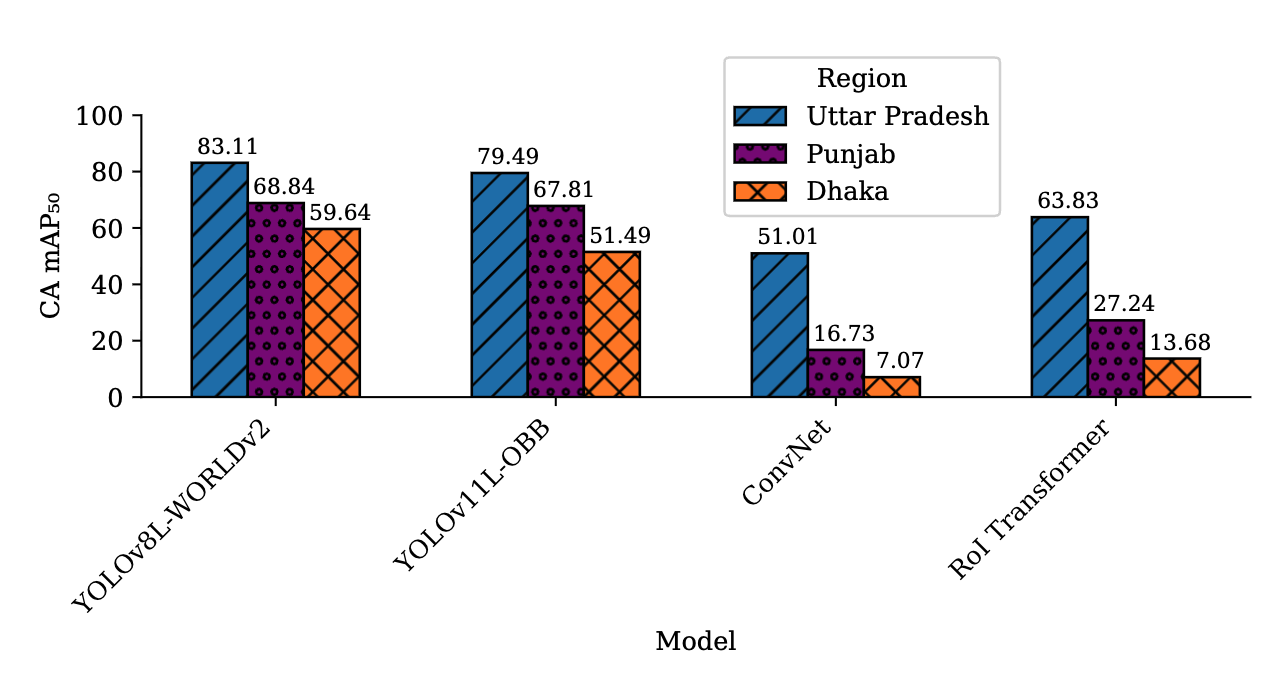
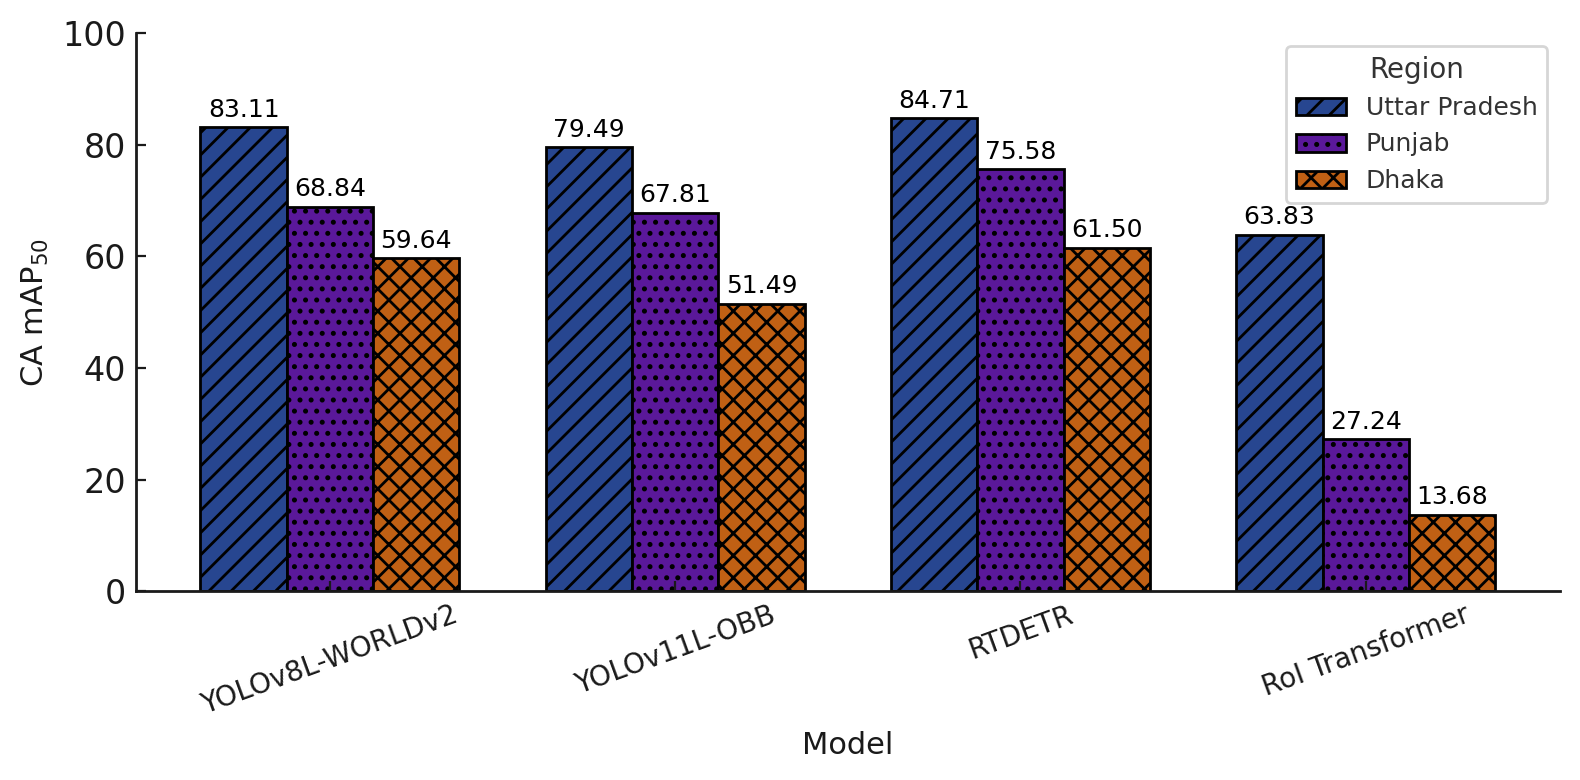
Changes to figures and UI/UX

diff --git a/docs/applications.html b/docs/applications.html
@@ -274,13 +274,28 @@ pre > code.sourceCode > span > a:first-child::before { text-decoration: underlin
 <h3 class="anchored" data-anchor-id="foundation-model-development">Foundation Model Development</h3>
 <div class="grid grid-3">
 <div class="card">
-<p><strong>Remote Sensing Pretraining</strong> - Large-scale satellite imagery datasets - Self-supervised learning approaches - Multi-spectral data integration</p>
+<p><strong>Remote Sensing Pretraining</strong></p>
+<ul>
+<li>Large-scale satellite imagery datasets</li>
+<li>Self-supervised learning approaches</li>
+<li>Multi-spectral data integration</li>
+</ul>
 </div>
 <div class="card">
-<p><strong>Multi-Task Learning</strong> - Simultaneous detection and classification - Joint object and scene understanding - Efficiency optimization</p>
+<p><strong>Multi-Task Learning</strong></p>
+<ul>
+<li>Simultaneous detection and classification</li>
+<li>Joint object and scene understanding</li>
+<li>Efficiency optimization</li>
+</ul>
 </div>
 <div class="card">
-<p><strong>Vision-Language Models</strong> - Connect imagery with descriptions - Natural language queries - Automated report generation</p>
+<p><strong>Vision-Language Models</strong></p>
+<ul>
+<li>Connect imagery with descriptions</li>
+<li>Natural language queries</li>
+<li>Automated report generation</li>
+</ul>
 </div>
 </div>
 </section>
@@ -304,30 +319,6 @@ pre > code.sourceCode > span > a:first-child::before { text-decoration: underlin
 <li><strong>Financial Inclusion</strong>: Support small-scale producers with credit access</li>
 <li><strong>Market Access</strong>: Connect producers with sustainable building markets</li>
 </ul>
-</section>
-</section>
-<section id="case-studies" class="level2">
-<h2 class="anchored" data-anchor-id="case-studies">Case Studies</h2>
-<section id="india-uttar-pradesh-technology-transition" class="level3">
-<h3 class="anchored" data-anchor-id="india-uttar-pradesh-technology-transition">India: Uttar Pradesh Technology Transition</h3>
-<p><strong>Challenge</strong>: High pollution levels from traditional brick kilns<br>
-<strong>Application</strong>: Used SentinelKilnDB to track Zigzag kiln adoption<br>
-<strong>Results</strong>: 94% correlation with official survey data, identified 19,910 kilns<br>
-<strong>Impact</strong>: Informed state-level incentive programs for cleaner technology</p>
-</section>
-<section id="bangladesh-rapid-industrialization-monitoring" class="level3">
-<h3 class="anchored" data-anchor-id="bangladesh-rapid-industrialization-monitoring">Bangladesh: Rapid Industrialization Monitoring</h3>
-<p><strong>Challenge</strong>: Tracking environmental impact of industrial growth<br>
-<strong>Application</strong>: Monitor kiln density changes over time<br>
-<strong>Results</strong>: Documented shift from 150 to 4,247 Zigzag kilns (2009-2017)<br>
-<strong>Impact</strong>: Supported evidence-based environmental policy</p>
-</section>
-<section id="pakistan-air-quality-improvement" class="level3">
-<h3 class="anchored" data-anchor-id="pakistan-air-quality-improvement">Pakistan: Air Quality Improvement</h3>
-<p><strong>Challenge</strong>: Address air pollution in Punjab province<br>
-<strong>Application</strong>: Identify high-density kiln areas for intervention<br>
-<strong>Results</strong>: Mapped 12,177 kilns across 4 provinces<br>
-<strong>Impact</strong>: Targeted air quality improvement programs</p>
 </section>
 </section>
 <section id="technical-implementation" class="level2">

diff --git a/docs/styles.css b/docs/styles.css
@@ -521,3 +521,125 @@ li {
 .table-container {
   position: relative;
 }
+.stat-grid-2x2 {
+  display: grid;
+  grid-template-columns: repeat(2, 1fr); /* 2 columns by default */
+  gap: 2rem;
+  max-width: 900px;
+  width: 100%;                   /* always fit parent */
+  box-sizing: border-box;
+  margin: 0 auto;
+  padding: 0 2rem;
+}
+
+@media (max-width: 780px) {
+  .stat-grid-2x2 {
+    gap: 1rem;
+    padding: 0 1rem;
+    max-width: 100%;
+  }
+}
+
+@media (max-width: 520px) {
+  .stat-grid-2x2 {
+    grid-template-columns: 1fr;  /* switch to single column stack */
+    gap: 1rem;
+    padding: 0 0.5rem;
+  }
+}
+
+.hero h1, .container h1 {
+  text-align: center;
+  margin-left: auto;
+  margin-right: auto;
+}
+
+.grid-3 {
+  display: grid;
+  grid-template-columns: repeat(auto-fit, minmax(275px, 1fr));
+  gap: 2.5rem;
+  margin: 2.5rem 0;
+}
+
+.card {
+  background: var(--color-white);
+  border: 1.5px solid var(--color-gray-200); 
+  border-radius: 18px;
+  padding: 2rem 1.5rem;
+  box-shadow: 0 1px 9px rgba(60,100,180,.06);
+  transition: box-shadow 0.22s, border-color 0.18s, transform 0.14s;
+  min-height: 200px;
+  display: flex;
+  flex-direction: column;
+  justify-content: flex-start;
+  font-size: 1.08rem;
+  margin-bottom: 0;
+}
+
+@media (max-width: 900px) {
+  .grid-3 {
+    grid-template-columns: 1fr;
+    gap: 1.5rem;
+  }
+  .card {
+    padding: 1.2rem 0.8rem;
+  }
+}
+
+.case-study-stack {
+  display: flex;
+  flex-direction: column;
+  gap: 2.5rem;
+  margin: 3rem 0;
+}
+
+.case-study-card {
+  background: var(--color-white, #fff);
+  border-left: 5px solid var(--color-primary, #3b82f6);
+  border-radius: 12px;
+  box-shadow: 0 4px 24px rgba(60,100,180,.09);
+  padding: 1.75rem 2rem 1.25rem 2rem;
+  transition: box-shadow 0.22s, border-color 0.18s;
+  position: relative;
+}
+
+.case-study-card:hover {
+  box-shadow: 0 8px 32px rgba(60,100,180,0.17);
+  border-left: 5px solid var(--color-accent, #06b6d4);
+}
+
+.cs-title {
+  font-size: 1.18rem;
+  font-weight: 700;
+  color: var(--color-primary, #3b82f6);
+  margin-bottom: 1.2rem;
+  letter-spacing: 0.01em;
+}
+
+.case-study-card div {
+  font-size: 1.08rem;
+  margin-bottom: 0.45rem;
+  color: var(--color-gray-800, #334155);
+  line-height: 1.6;
+}
+
+.case-study-card b {
+  color: var(--color-gray-900, #0f172a);
+  font-weight: 700;
+}
+
+@media (max-width: 900px) {
+  .case-study-card {
+    padding: 1.2rem 1rem 1rem 1rem;
+  }
+  .cs-title {
+    font-size: 1.06rem;
+  }
+}
+
+/* Center align Quarto page title at top */
+.title, .page-title, h1.title, h1.page-title {
+  text-align: left;
+  margin-left: auto;
+  margin-right: auto;
+}

diff --git a/styles.css b/styles.css
@@ -521,3 +521,125 @@ li {
 .table-container {
   position: relative;
 }
+.stat-grid-2x2 {
+  display: grid;
+  grid-template-columns: repeat(2, 1fr); /* 2 columns by default */
+  gap: 2rem;
+  max-width: 900px;
+  width: 100%;                   /* always fit parent */
+  box-sizing: border-box;
+  margin: 0 auto;
+  padding: 0 2rem;
+}
+
+@media (max-width: 780px) {
+  .stat-grid-2x2 {
+    gap: 1rem;
+    padding: 0 1rem;
+    max-width: 100%;
+  }
+}
+
+@media (max-width: 520px) {
+  .stat-grid-2x2 {
+    grid-template-columns: 1fr;  /* switch to single column stack */
+    gap: 1rem;
+    padding: 0 0.5rem;
+  }
+}
+
+.hero h1, .container h1 {
+  text-align: center;
+  margin-left: auto;
+  margin-right: auto;
+}
+
+.grid-3 {
+  display: grid;
+  grid-template-columns: repeat(auto-fit, minmax(275px, 1fr));
+  gap: 2.5rem;
+  margin: 2.5rem 0;
+}
+
+.card {
+  background: var(--color-white);
+  border: 1.5px solid var(--color-gray-200); 
+  border-radius: 18px;
+  padding: 2rem 1.5rem;
+  box-shadow: 0 1px 9px rgba(60,100,180,.06);
+  transition: box-shadow 0.22s, border-color 0.18s, transform 0.14s;
+  min-height: 200px;
+  display: flex;
+  flex-direction: column;
+  justify-content: flex-start;
+  font-size: 1.08rem;
+  margin-bottom: 0;
+}
+
+@media (max-width: 900px) {
+  .grid-3 {
+    grid-template-columns: 1fr;
+    gap: 1.5rem;
+  }
+  .card {
+    padding: 1.2rem 0.8rem;
+  }
+}
+
+.case-study-stack {
+  display: flex;
+  flex-direction: column;
+  gap: 2.5rem;
+  margin: 3rem 0;
+}
+
+.case-study-card {
+  background: var(--color-white, #fff);
+  border-left: 5px solid var(--color-primary, #3b82f6);
+  border-radius: 12px;
+  box-shadow: 0 4px 24px rgba(60,100,180,.09);
+  padding: 1.75rem 2rem 1.25rem 2rem;
+  transition: box-shadow 0.22s, border-color 0.18s;
+  position: relative;
+}
+
+.case-study-card:hover {
+  box-shadow: 0 8px 32px rgba(60,100,180,0.17);
+  border-left: 5px solid var(--color-accent, #06b6d4);
+}
+
+.cs-title {
+  font-size: 1.18rem;
+  font-weight: 700;
+  color: var(--color-primary, #3b82f6);
+  margin-bottom: 1.2rem;
+  letter-spacing: 0.01em;
+}
+
+.case-study-card div {
+  font-size: 1.08rem;
+  margin-bottom: 0.45rem;
+  color: var(--color-gray-800, #334155);
+  line-height: 1.6;
+}
+
+.case-study-card b {
+  color: var(--color-gray-900, #0f172a);
+  font-weight: 700;
+}
+
+@media (max-width: 900px) {
+  .case-study-card {
+    padding: 1.2rem 1rem 1rem 1rem;
+  }
+  .cs-title {
+    font-size: 1.06rem;
+  }
+}
+
+/* Center align Quarto page title at top */
+.title, .page-title, h1.title, h1.page-title {
+  text-align: left;
+  margin-left: auto;
+  margin-right: auto;
+}

diff --git a/docs/index.html b/docs/index.html
@@ -169,14 +169,30 @@ pre > code.sourceCode > span > a:first-child::before { text-decoration: underlin
 <!-- margin-sidebar -->
     
 <!-- main -->
-<main class="content column-page" id="quarto-document-content"><header id="title-block-header" class="quarto-title-block"><h1 class="title display-7">SentinelKilnDB</h1></header>
+<main class="content column-page" id="quarto-document-content">
+
+<header id="title-block-header" class="quarto-title-block default">
+<div class="quarto-title">
+<h1 class="title">SentinelKilnDB</h1>
+</div>
 
 
+
+<div class="quarto-title-meta column-page">
+
+    
+  
+    
+  </div>
+  
+
+
+</header>
 
 
 <div class="hero">
 <section id="sentinelkilndb" class="level1 container">
-
+<h1>SentinelKilnDB</h1>
 <div class="subtitle">
 <p>A Large-Scale Dataset and Benchmark for OBB Brick Kiln Detection in South Asia Using Satellite Imagery</p>
 </div>
@@ -184,7 +200,7 @@ pre > code.sourceCode > span > a:first-child::before { text-decoration: underlin
 <p><span class="badge">NeurIPS 2025</span> <span class="badge">Satellite Imagery</span> <span class="badge">Object Detection</span> <span class="badge">Environmental Monitoring</span></p>
 </div>
 <div class="btn-group">
-<p><a href="https://openreview.net/pdf?id=efGzsxVSEC" class="btn">Paper Pdf</a> <a href="https://www.kaggle.com/datasets/rishabhsnip/sentinelkiln-dataset" class="btn">Download Dataset</a> <a href="https://github.com/rishabh-mondal/NeurIPS_2025" class="btn">View Code</a> <a href="https://sustainability-lab.github.io/" class="btn">Sustainability Lab</a></p>
+<p><a href="https://openreview.net/pdf?id=efGzsxVSEC" class="btn">Paper PDF</a> <a href="https://www.kaggle.com/datasets/rishabhsnip/sentinelkiln-dataset" class="btn">Download Dataset</a> <a href="https://github.com/rishabh-mondal/NeurIPS_2025" class="btn">View Code</a> <a href="https://sustainability-lab.github.io/" class="btn">Sustainability Lab</a></p>
 </div>
 </section>
 </div>

diff --git a/docs/benchmark.html b/docs/benchmark.html
@@ -7,7 +7,7 @@
 <meta name="viewport" content="width=device-width, initial-scale=1.0, user-scalable=yes">
 
 
-<title>Benchmark Results – SentinelKilnDB</title>
+<title>Benchmarking Results – SentinelKilnDB</title>
 <style>
 code{white-space: pre-wrap;}
 span.smallcaps{font-variant: small-caps;}
@@ -138,7 +138,7 @@ ul.task-list li input[type="checkbox"] {
 
 <header id="title-block-header" class="quarto-title-block default">
 <div class="quarto-title">
-<h1 class="title">Benchmark Results</h1>
+<h1 class="title">Benchmarking Results</h1>
 </div>
 
 
